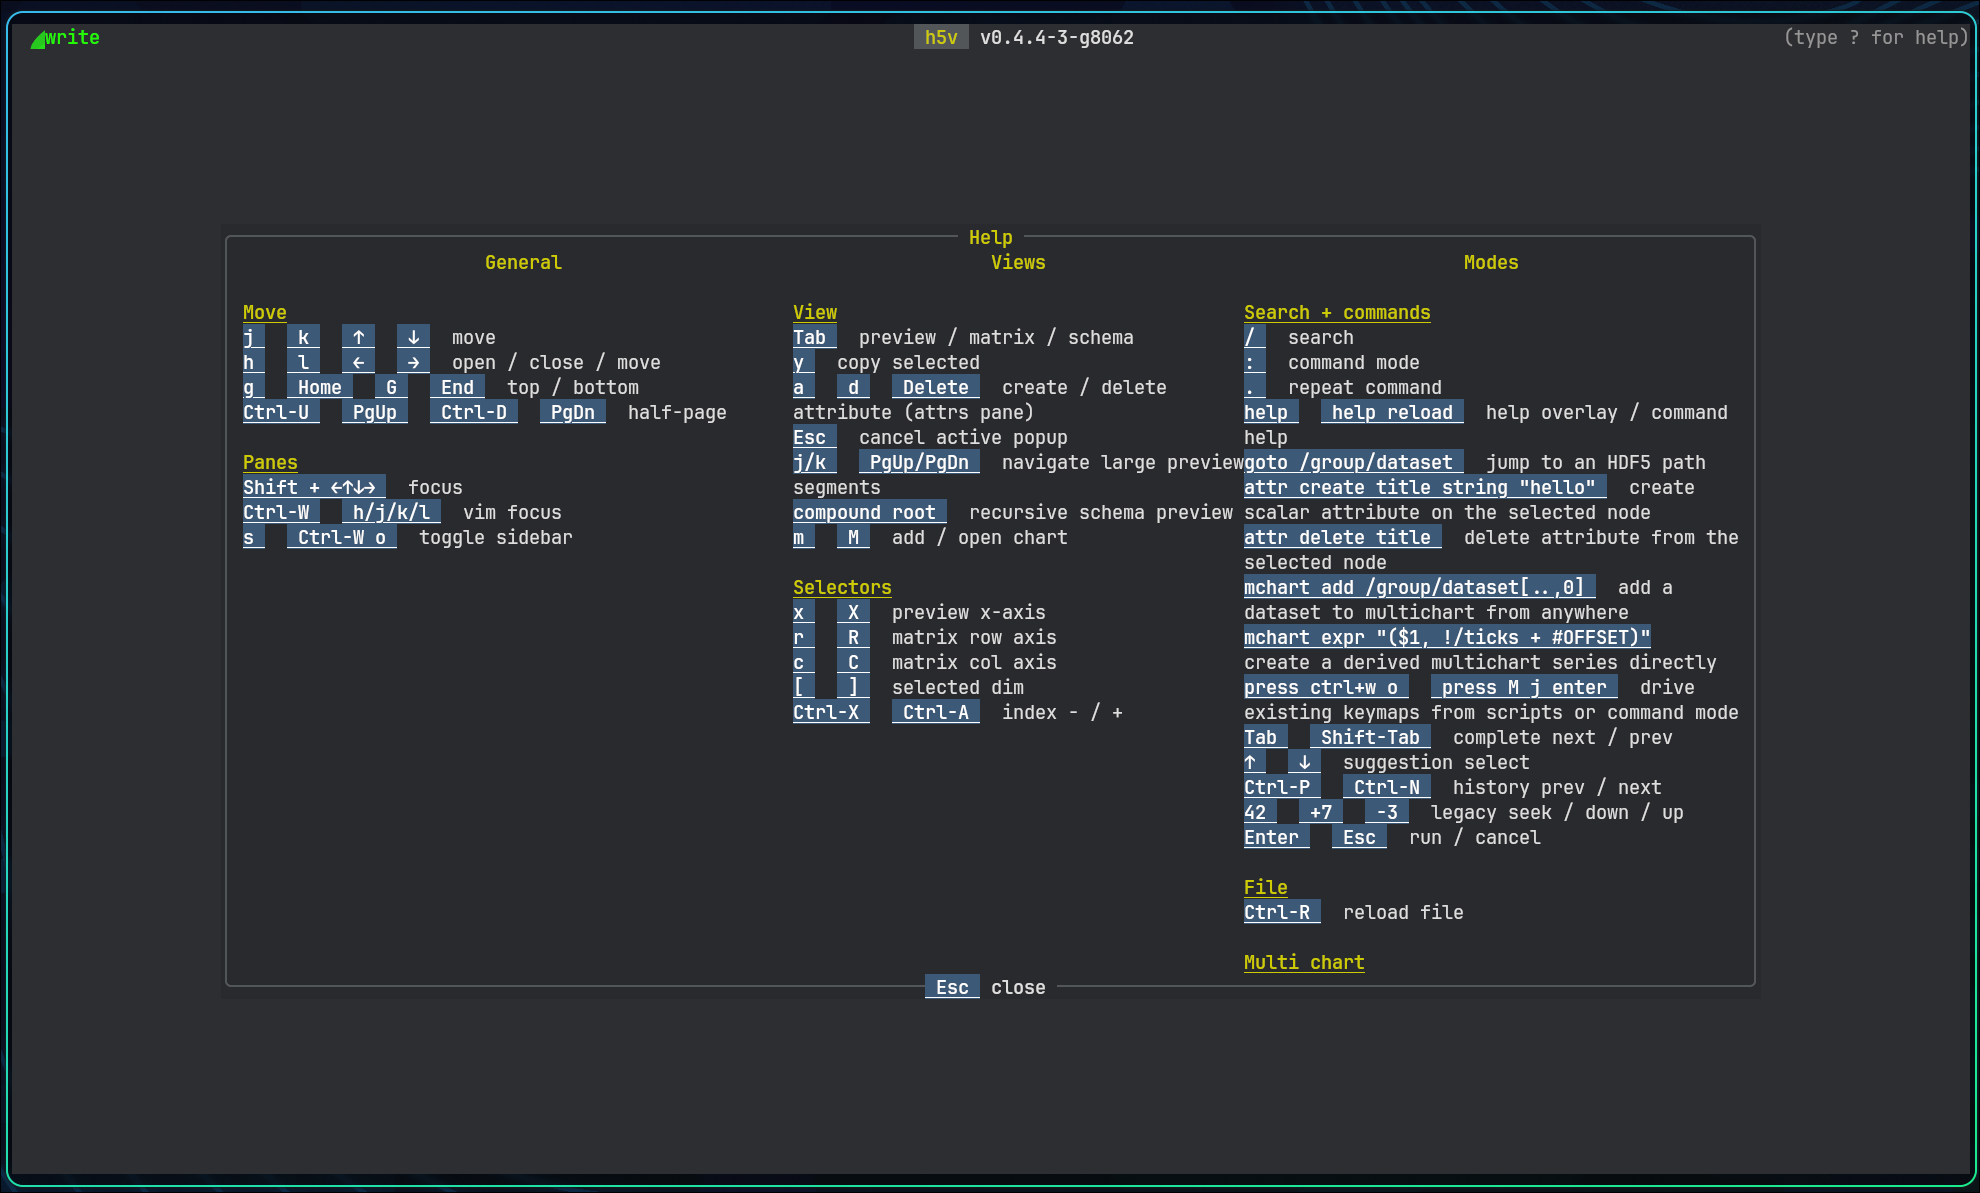
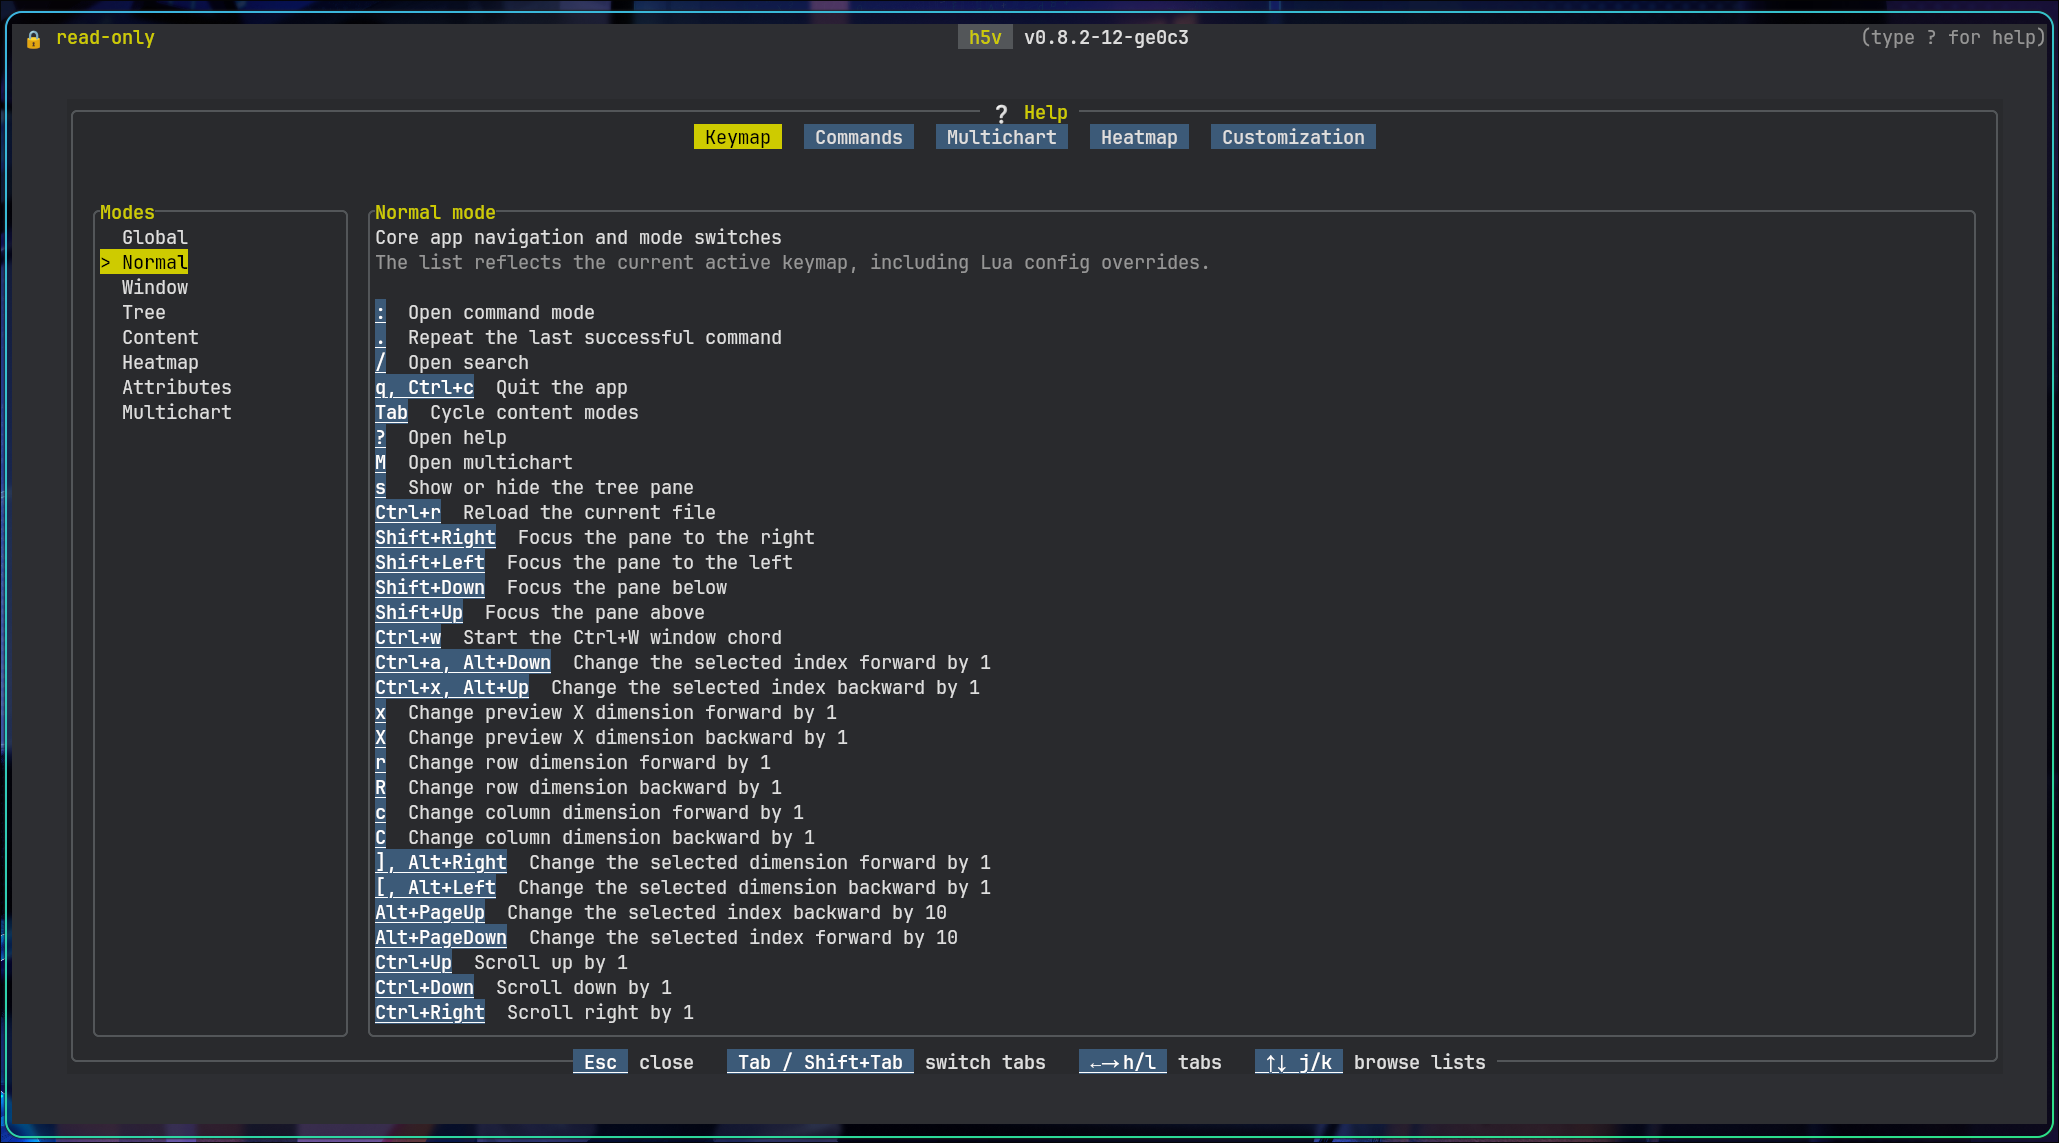
docs: Updated customization docs

diff --git a/docs/src/configuration.md b/docs/src/configuration.md
@@ -1,4 +1,4 @@
-# Configuration and theming
+# Configuration
 
 h5v loads `init.lua` at startup.
 
@@ -16,38 +16,31 @@ If it does not exist, `h5v` creates it.
 
 LuaLS sidecar files are generated next to it under `.h5v-luals/`. `h5v.lua` is refreshed automatically. `.luarc.json` is refreshed only while h5v manages it.
 
-## Configuration commands
+## Commands
 
 | Command | What it does |
 | --- | --- |
 | `configure` | Opens `init.lua` in `$VISUAL` or `$EDITOR`, then reloads the configuration when you exit the editor. |
 | `configure reset` | Replaces `init.lua` with a fresh default scaffold, then reloads it immediately. |
 
-## Config flow
+## Start here
 
-1. Resolve compatibility with this precedence: CLI `--compatibility` > `h5v.compatibility` > `H5V_COMPATIBILITY_MODE` > default.
-2. Pick content mode order with `h5v.content_mode_order`.
-3. Pick a built-in theme with `h5v.theme`.
-4. Pick a built-in symbol theme with `h5v.symbol_theme`.
-5. Pick preferred heatmap defaults in `h5v.heatmap`.
-6. Add keymap overrides in `h5v.keymaps`.
-7. Override only the values you want in `h5v.colors` and `h5v.symbols`.
+Most configs only need these fields:
 
-For all keys, categories, themes, and accepted color names, see [Configuration reference](./configuration-reference.md).
+- `h5v.theme`
+- `h5v.symbol_theme`
+- `h5v.content_mode_order`
+- `h5v.compatibility`
+- `h5v.heatmap.*`
+- `h5v.keymaps`
+- `h5v.colors`
+- `h5v.symbols`
 
-Heatmap also supports preferred defaults in `h5v.heatmap`:
-
-- `default_range`
-- `default_colormap`
-- `default_normalization`
-- `default_invert_x`
-- `default_invert_y`
-- `default_invert_c`
-- `range_modes` for custom presets
+For all keys, scopes, themes, and accepted color names, see [Configuration reference](./configuration-reference.md).
 
 ## Keymaps
 
-Keymaps are configurable in `h5v.keymaps`.
+Keymaps live in `h5v.keymaps`.
 
 Scopes:
 
@@ -79,9 +72,7 @@ Each scope supports:
 - `bind_lua(mode, key, callback[, description])`
 - `unbind(mode, key)`
 
-`h5v.modes` and `h5v.actions` expose scope and action constants.
-
-The first pass covers non-text-entry contexts only. Command-line editing, search editing, and the multichart expression prompt keep their built-in editing keys.
+Use `h5v.modes.*` and `h5v.actions.*` constants in Lua. Examples: `h5v.modes.Global`, `h5v.modes.Heatmap`, `h5v.actions.ShowHelp`, `h5v.actions.HeatmapZoomIn`.
 
 Example:
 
@@ -96,6 +87,18 @@ bind_lua(h5v.modes.Global, "ctrl+l", function(ctx)
 end)
 bind(h5v.modes.Heatmap, "ctrl+z", h5v.actions.HeatmapZoomIn)
 ```
+
+## Heatmap defaults
+
+Heatmap settings live under `h5v.heatmap`:
+
+- `default_range`
+- `default_colormap`
+- `default_normalization`
+- `default_invert_x`
+- `default_invert_y`
+- `default_invert_c`
+- `range_modes`
 
 ## Example
 

diff --git a/docs/src/quick-start.md b/docs/src/quick-start.md
@@ -7,7 +7,7 @@ h5v path/to/file.h5
 h5v -w path/to/file.h5
 ```
 
-`?` opens the in-app help overlay.
+Press `?` to open the in-app help.
 
 ![h5v quick layout overview](./assets/help.png)
 
@@ -31,11 +31,25 @@ python scripts/generate_example_h5.py
 
 Useful keys:
 
-- `?` opens the in-app help overlay
+- `?` opens the in-app help
 - `Tab` switches between preview and matrix when both exist
 - `:` opens the command minibuffer
 - `m` adds the current preview to multichart, including group previews driven by `H5V_PREVIEW_EXPR`
 - `M` opens or closes multichart mode
+
+## Help
+
+The help view has five tabs:
+
+- `Keymap`
+- `Commands`
+- `Multichart`
+- `Heatmap`
+- `Customization`
+
+Use `Tab` / `Shift+Tab` or `h` / `l` to switch tabs.
+
+In `Keymap`, `Commands`, and `Customization`, use `j` / `k`, arrow keys, `Home`, `End`, `g`, and `G` to move through the left-hand list.
 
 Example paths:
 
@@ -85,4 +99,4 @@ Dry-run:
 h5v --script-test --script examples/h5v-example.h5v
 ```
 
-See [Controls reference](./controls.md), [Commands](./commands.md), and [Startup scripting](./startup-scripting.md).
+See [Controls reference](./controls.md), [Commands](./commands.md), [Configuration](./configuration.md), and [Startup scripting](./startup-scripting.md).

diff --git a/docs/src/controls.md b/docs/src/controls.md
@@ -16,6 +16,19 @@ These are the shipped defaults. `h5v.keymaps` can override them for non-text-ent
 | `s` or `Ctrl+W o` | Toggle the sidebar |
 | `Ctrl+R` | Reload the file |
 
+## Help
+
+| Keys | Action |
+| --- | --- |
+| `?` | Open help |
+| `Esc` | Close help |
+| `Tab`, `l`, `Right` | Next tab |
+| `Shift+Tab`, `h`, `Left` | Previous tab |
+| `j`, `Down` | Next item in the left-hand list |
+| `k`, `Up` | Previous item in the left-hand list |
+| `g`, `Home` | Jump to the first item in the left-hand list |
+| `G`, `End` | Jump to the last item in the left-hand list |
+
 ## Tree navigation
 
 | Keys | Action |

diff --git a/docs/src/navigation.md b/docs/src/navigation.md
@@ -52,7 +52,9 @@ Use `Tab` to switch modes when more than one is available.
 
 - `/` enters search mode
 - `:` opens the command minibuffer
-- `?` opens the built-in help overlay
+- `?` opens the built-in help
 - `.` repeats the last successful command
+
+The help view has tabs for `Keymap`, `Commands`, `Multichart`, `Heatmap`, and `Customization`. Tabs with a left-hand list use the normal list navigation keys.
 
 See [Controls reference](./controls.md) and [Commands](./commands.md).

diff --git a/docs/src/commands.md b/docs/src/commands.md
@@ -12,6 +12,8 @@ Minibuffer behavior:
 - `help` or `help <command>` shows command help
 - `.` repeats the last successful command
 
+Press `?` for the full in-app help. Use `help <command>` in the minibuffer for command-specific help.
+
 ## Common commands
 
 Navigation:

diff --git a/docs/src/configuration-reference.md b/docs/src/configuration-reference.md
@@ -207,6 +207,8 @@ Helper functions:
 | `bind_lua(mode, key, callback[, description])` | Append a Lua callback |
 | `unbind(mode, key)` | Append one key to the scope `unbind` list |
 
+Common mode constants: `h5v.modes.Global`, `h5v.modes.Normal`, `h5v.modes.Window`, `h5v.modes.Tree`, `h5v.modes.Content`, `h5v.modes.Heatmap`, `h5v.modes.Attributes`, `h5v.modes.Multichart`.
+
 Example:
 
 ```lua